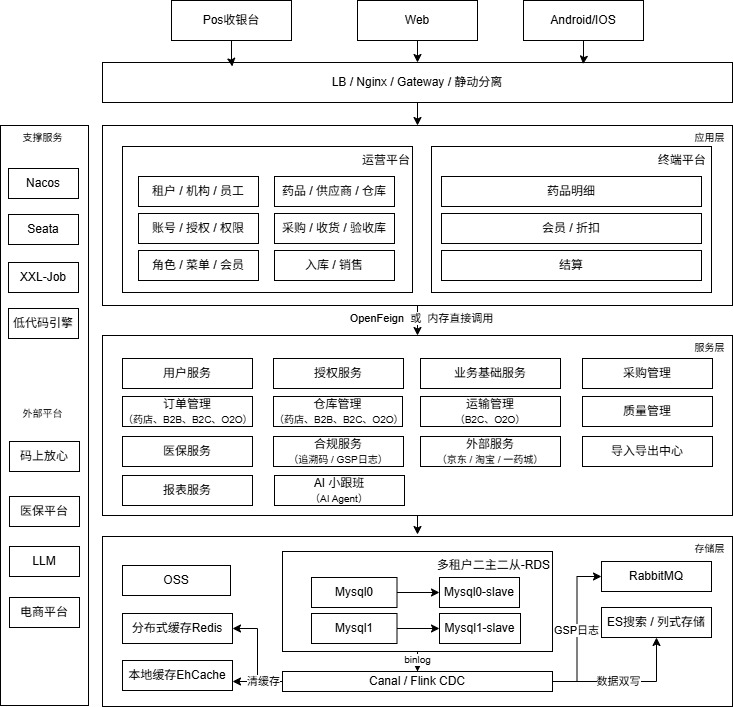
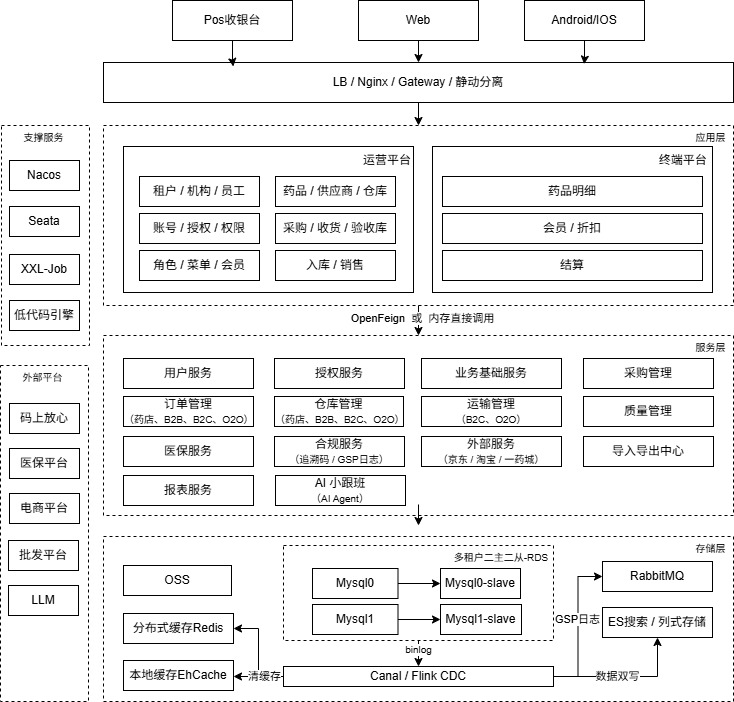
改描述内容

diff --git a/README.md b/README.md
@@ -56,7 +56,7 @@
 
 ## 三、总业务架构图
 
-图略
+![图片](./image/总业务架构图.jpg)
 
 ## 四、运行效果
 
